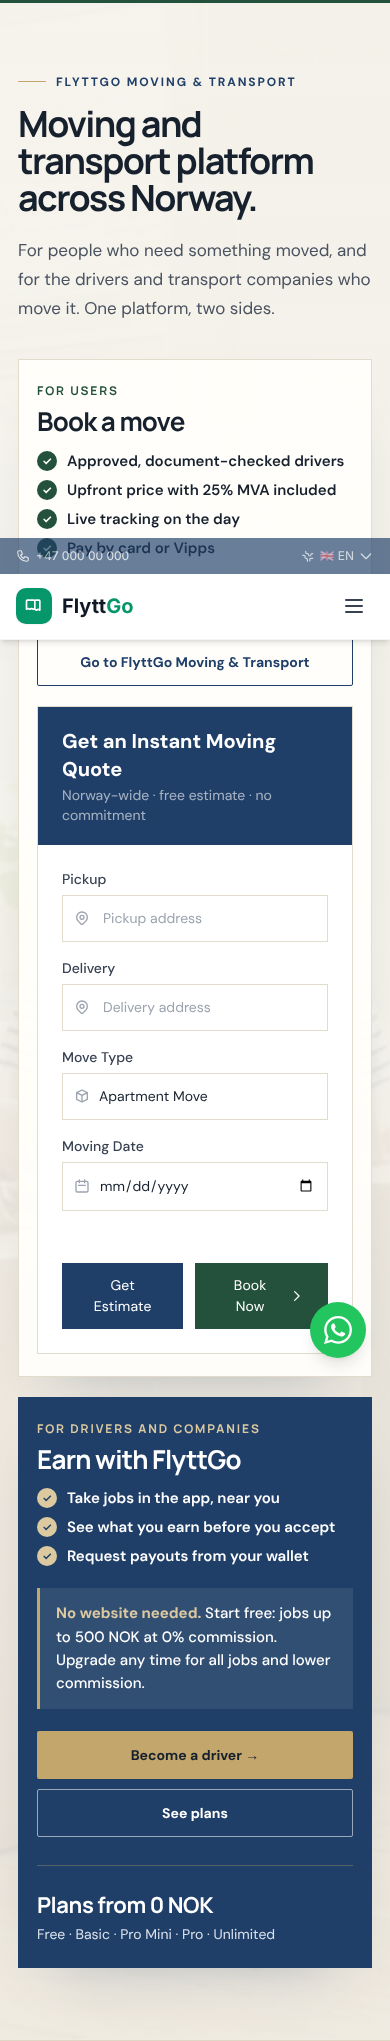
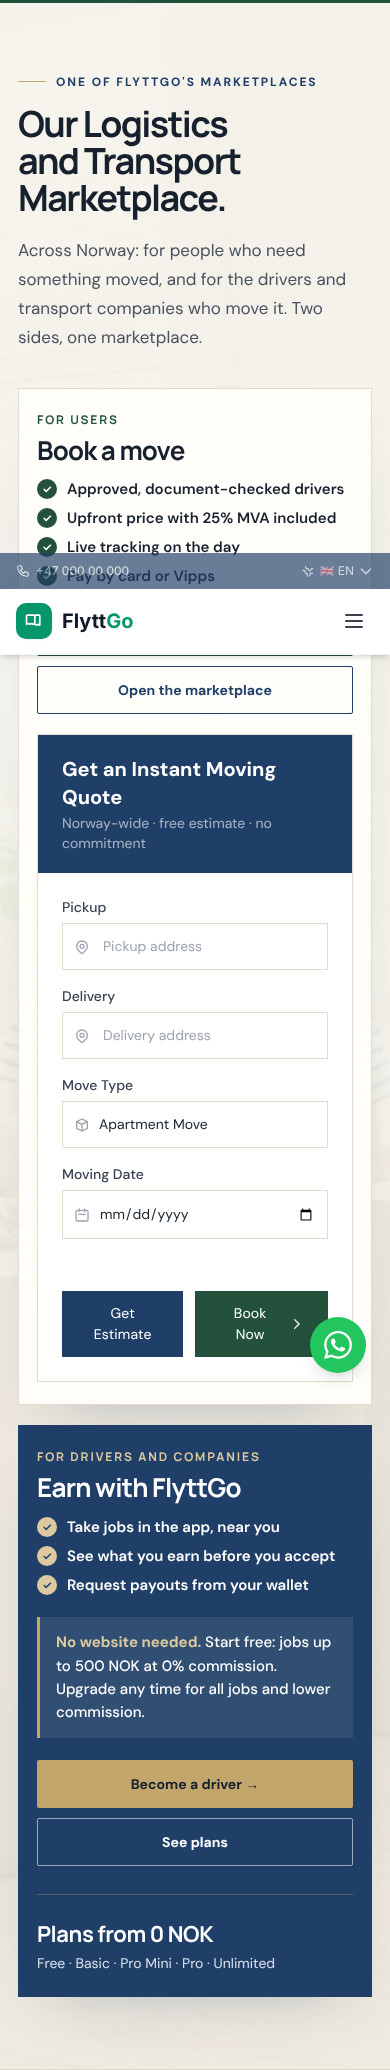
Name moving as one of FlyttGo's options: Our Logistics and Transport Marketplace
The band, the hero line and the new design's menu item now present moving as
FlyttGo's logistics and transport marketplace (owner). The live site's header label
is unchanged. EN and NO.

Claude-Session: https://claude.ai/code/session_019jmcbqjMmiLyKZAGLeTygA

diff --git a/src/components/homeV2/design.v2.no.html b/src/components/homeV2/design.v2.no.html
@@ -1,5 +1,5 @@
 <!-- Generated by scripts/platform-home/build.py (restructured homepage, Norwegian). Do not edit. -->
-<main id="main-content"><section class="hero wrap"><div class="hero-grid"><div class="hero-copy"><svg class="hero-motif" viewBox="0 0 600 320" aria-hidden="true" focusable="false"><path d="M8 304 C 180 300, 330 250, 430 150 S 560 30, 592 12" fill="none" stroke="currentColor" stroke-width="1.5"/><path d="M8 304 C 180 300, 330 250, 430 150 S 560 30, 592 12" fill="none" stroke="currentColor" stroke-width="14" opacity=".06"/><circle cx="592" cy="12" r="6" fill="currentColor"/></svg><a class="hero-move" href="#booking" data-anchor><i aria-hidden="true"></i>Flytting og transport over hele Norge — få pris på et minutt →</a><div class="eyebrow"><span class="hl-sig-a">Tjenester · Bedriftsverktøy · Nettverk</span><span class="hl-sig">Vi hjelper bedrifter å fly høyt</span></div><h1 class="display"><span class="hl hl-a"><span class="h1-line">Vi hjelper bedrifter</span> <span class="h1-line">å fly høyt.</span></span><span class="hl hl-b"><span class="h1-line">Bestill tjenester.</span> <span class="h1-line">Driv bedriften din.</span> <span class="h1-line">Voks med FlyttGo.</span></span><span class="hl hl-c"><span class="h1-line">Plattformen bak</span> <span class="h1-line">enhver tjenestebedrift.</span></span><br/><span class="serif">Én sammenkoblet plattform for tjenester, bedriftsdrift og vekst.</span></h1><p class="hero-lede">Finn tjenester, driv bedriften din og knytt deg til et bredere forretningsnettverk – alt gjennom én sammenkoblet FlyttGo-plattform.</p><div class="hero-actions"><a class="btn btn-primary" href="#marketplace">Utforsk tjenester<span class="arrow">↗</span></a><a class="btn btn-light" href="#business-workspace">Min bedrift<span class="arrow">↗</span></a><a class="hero-link" href="#business">For organisasjoner →</a></div><div class="hero-note"><span>For kunder, selvstendige fagfolk, voksende bedrifter og organisasjoner.</span></div></div><div class="hero-visual"><img loading="lazy" decoding="async" alt="Selvstendig næringsdrivende som driver en tjenestebedrift" src="https://d64gsuwffb70l.cloudfront.net/69b48d1c24a3a59014dde38a_1773440407421_d3f9f76f.jpg"/><nav class="hero-ledger" aria-label="Tre veier inn i FlyttGo"><a href="#marketplace"><small>01 · Utforsk</small><strong>Tjenester nær deg</strong></a><a href="#business-workspace"><small>02 · Min bedrift</small><strong>Driv bedriften</strong></a><a href="#business"><small>03 · For organisasjoner</small><strong>Voks med FlyttGo</strong></a></nav><ul class="hero-actors"><li><b>Kunder</b><span>finner og bestiller tjenester</span></li><li><b>Fagfolk</b><span>utfører arbeidet</span></li><li><b>Bedrifter</b><span>styrer bestillinger, jobber og fakturaer</span></li><li><b>Organisasjoner</b><span>kjøper, godkjenner og vokser</span></li></ul></div></div></section><div class="v2-booking v2-move-band" id="booking"><div class="wrap v2-booking-inner"><div class="v2-move-top"><div><span class="eyebrow">FlyttGo Flytting og transport</span><h2>Plattform for flytting og transport over hele Norge.</h2></div><p>For alle som trenger noe flyttet, og for sjåførene og transportbedriftene som flytter det. Én plattform, to sider.</p></div><div class="v2-move-sides"><div class="v2-move-card v2-move-users"><small>For kunder</small><h3>Bestill flytting</h3><ul class="v2-move-proof"><li>Godkjente sjåfører med kontrollerte dokumenter</li><li>Fast pris med 25 % MVA inkludert</li><li>Sporing på flyttedagen</li><li>Betal med kort eller Vipps</li></ul><div class="v2-move-actions"><a href="/book" data-page="booking" data-anchor>Få flyttepris →</a><a href="/transport" data-page="transport-home" data-anchor>Gå til FlyttGo Flytting og transport</a></div><div data-slot="booking"></div></div><div class="v2-move-card v2-move-drivers"><small>For sjåfører og bedrifter</small><h3>Tjen penger med FlyttGo</h3><ul class="v2-move-proof"><li>Ta oppdrag i appen, i nærheten av deg</li><li>Se hva du tjener før du takker ja</li><li>Be om utbetaling fra lommeboken din</li></ul><p class="v2-move-free"><b>Ingen nettside nødvendig.</b> Start gratis: oppdrag opptil 500 NOK med 0 % provisjon. Oppgrader når som helst for alle oppdrag og lavere provisjon.</p><div class="v2-move-actions"><a href="/become-a-driver" data-page="driver-onboarding" data-anchor>Bli sjåfør →</a><a href="/driver-subscriptions" data-page="subscriptions" data-anchor>Se planer</a></div><p class="v2-move-plans"><b>Planer fra 0 NOK</b>Free · Basic · Pro Mini · Pro · Unlimited</p></div></div></div></div>
+<main id="main-content"><section class="hero wrap"><div class="hero-grid"><div class="hero-copy"><svg class="hero-motif" viewBox="0 0 600 320" aria-hidden="true" focusable="false"><path d="M8 304 C 180 300, 330 250, 430 150 S 560 30, 592 12" fill="none" stroke="currentColor" stroke-width="1.5"/><path d="M8 304 C 180 300, 330 250, 430 150 S 560 30, 592 12" fill="none" stroke="currentColor" stroke-width="14" opacity=".06"/><circle cx="592" cy="12" r="6" fill="currentColor"/></svg><a class="hero-move" href="#booking" data-anchor><i aria-hidden="true"></i>Vår markedsplass for logistikk og transport — få flyttepris på et minutt →</a><div class="eyebrow"><span class="hl-sig-a">Tjenester · Bedriftsverktøy · Nettverk</span><span class="hl-sig">Vi hjelper bedrifter å fly høyt</span></div><h1 class="display"><span class="hl hl-a"><span class="h1-line">Vi hjelper bedrifter</span> <span class="h1-line">å fly høyt.</span></span><span class="hl hl-b"><span class="h1-line">Bestill tjenester.</span> <span class="h1-line">Driv bedriften din.</span> <span class="h1-line">Voks med FlyttGo.</span></span><span class="hl hl-c"><span class="h1-line">Plattformen bak</span> <span class="h1-line">enhver tjenestebedrift.</span></span><br/><span class="serif">Én sammenkoblet plattform for tjenester, bedriftsdrift og vekst.</span></h1><p class="hero-lede">Finn tjenester, driv bedriften din og knytt deg til et bredere forretningsnettverk – alt gjennom én sammenkoblet FlyttGo-plattform.</p><div class="hero-actions"><a class="btn btn-primary" href="#marketplace">Utforsk tjenester<span class="arrow">↗</span></a><a class="btn btn-light" href="#business-workspace">Min bedrift<span class="arrow">↗</span></a><a class="hero-link" href="#business">For organisasjoner →</a></div><div class="hero-note"><span>For kunder, selvstendige fagfolk, voksende bedrifter og organisasjoner.</span></div></div><div class="hero-visual"><img loading="lazy" decoding="async" alt="Selvstendig næringsdrivende som driver en tjenestebedrift" src="https://d64gsuwffb70l.cloudfront.net/69b48d1c24a3a59014dde38a_1773440407421_d3f9f76f.jpg"/><nav class="hero-ledger" aria-label="Tre veier inn i FlyttGo"><a href="#marketplace"><small>01 · Utforsk</small><strong>Tjenester nær deg</strong></a><a href="#business-workspace"><small>02 · Min bedrift</small><strong>Driv bedriften</strong></a><a href="#business"><small>03 · For organisasjoner</small><strong>Voks med FlyttGo</strong></a></nav><ul class="hero-actors"><li><b>Kunder</b><span>finner og bestiller tjenester</span></li><li><b>Fagfolk</b><span>utfører arbeidet</span></li><li><b>Bedrifter</b><span>styrer bestillinger, jobber og fakturaer</span></li><li><b>Organisasjoner</b><span>kjøper, godkjenner og vokser</span></li></ul></div></div></section><div class="v2-booking v2-move-band" id="booking"><div class="wrap v2-booking-inner"><div class="v2-move-top"><div><span class="eyebrow">En av FlyttGos markedsplasser</span><h2>Vår markedsplass for logistikk og transport.</h2></div><p>Over hele Norge: for alle som trenger noe flyttet, og for sjåførene og transportbedriftene som flytter det. To sider, én markedsplass.</p></div><div class="v2-move-sides"><div class="v2-move-card v2-move-users"><small>For kunder</small><h3>Bestill flytting</h3><ul class="v2-move-proof"><li>Godkjente sjåfører med kontrollerte dokumenter</li><li>Fast pris med 25 % MVA inkludert</li><li>Sporing på flyttedagen</li><li>Betal med kort eller Vipps</li></ul><div class="v2-move-actions"><a href="/book" data-page="booking" data-anchor>Få flyttepris →</a><a href="/transport" data-page="transport-home" data-anchor>Åpne markedsplassen</a></div><div data-slot="booking"></div></div><div class="v2-move-card v2-move-drivers"><small>For sjåfører og bedrifter</small><h3>Tjen penger med FlyttGo</h3><ul class="v2-move-proof"><li>Ta oppdrag i appen, i nærheten av deg</li><li>Se hva du tjener før du takker ja</li><li>Be om utbetaling fra lommeboken din</li></ul><p class="v2-move-free"><b>Ingen nettside nødvendig.</b> Start gratis: oppdrag opptil 500 NOK med 0 % provisjon. Oppgrader når som helst for alle oppdrag og lavere provisjon.</p><div class="v2-move-actions"><a href="/become-a-driver" data-page="driver-onboarding" data-anchor>Bli sjåfør →</a><a href="/driver-subscriptions" data-page="subscriptions" data-anchor>Se planer</a></div><p class="v2-move-plans"><b>Planer fra 0 NOK</b>Free · Basic · Pro Mini · Pro · Unlimited</p></div></div></div></div>
 <section class="legacy-suite" id="moving-services">
 <div class="wrap">
 <div class="section-head">

diff --git a/src/components/homeV2/design.v2.html b/src/components/homeV2/design.v2.html
@@ -1,5 +1,5 @@
 <!-- Generated by scripts/platform-home/build.py (restructured homepage, English). Do not edit. -->
-<main id="main-content"><section class="hero wrap"><div class="hero-grid"><div class="hero-copy"><svg class="hero-motif" viewBox="0 0 600 320" aria-hidden="true" focusable="false"><path d="M8 304 C 180 300, 330 250, 430 150 S 560 30, 592 12" fill="none" stroke="currentColor" stroke-width="1.5"/><path d="M8 304 C 180 300, 330 250, 430 150 S 560 30, 592 12" fill="none" stroke="currentColor" stroke-width="14" opacity=".06"/><circle cx="592" cy="12" r="6" fill="currentColor"/></svg><a class="hero-move" href="#booking" data-anchor><i aria-hidden="true"></i>Moving &amp; transport across Norway — get a price in a minute →</a><div class="eyebrow"><span class="hl-sig-a">Services · Business tools · Network</span><span class="hl-sig">Assisting companies to fly high</span></div><h1 class="display"><span class="hl hl-a"><span class="h1-line">Assisting Companies</span> <span class="h1-line">to Fly High.</span></span><span class="hl hl-b"><span class="h1-line">Book services.</span> <span class="h1-line">Run your company.</span> <span class="h1-line">Grow with FlyttGo.</span></span><span class="hl hl-c"><span class="h1-line">The platform behind</span> <span class="h1-line">every service business.</span></span><br/><span class="serif">One connected platform for services, business operations and growth.</span></h1><p class="hero-lede">Discover services, run your company and connect with a wider business network — all through one connected FlyttGo platform.</p><div class="hero-actions"><a class="btn btn-primary" href="#marketplace">Explore services<span class="arrow">↗</span></a><a class="btn btn-light" href="#business-workspace">My Company<span class="arrow">↗</span></a><a class="hero-link" href="#business">For Organisations →</a></div><div class="hero-note"><span>For customers, independent professionals, growing companies and organisations.</span></div></div><div class="hero-visual"><img loading="lazy" decoding="async" alt="Independent business owner managing a service business" src="https://d64gsuwffb70l.cloudfront.net/69b48d1c24a3a59014dde38a_1773440407421_d3f9f76f.jpg"/><nav class="hero-ledger" aria-label="Three ways into FlyttGo"><a href="#marketplace"><small>01 · Explore</small><strong>Services near you</strong></a><a href="#business-workspace"><small>02 · My Company</small><strong>Run the business</strong></a><a href="#business"><small>03 · For Organisations</small><strong>Scale with FlyttGo</strong></a></nav><ul class="hero-actors"><li><b>Customers</b><span>find and book services</span></li><li><b>Professionals</b><span>deliver the work</span></li><li><b>Companies</b><span>run bookings, jobs and invoices</span></li><li><b>Organisations</b><span>buy, approve and scale</span></li></ul></div></div></section><div class="v2-booking v2-move-band" id="booking"><div class="wrap v2-booking-inner"><div class="v2-move-top"><div><span class="eyebrow">FlyttGo Moving &amp; Transport</span><h2>Moving and transport platform across Norway.</h2></div><p>For people who need something moved, and for the drivers and transport companies who move it. One platform, two sides.</p></div><div class="v2-move-sides"><div class="v2-move-card v2-move-users"><small>For users</small><h3>Book a move</h3><ul class="v2-move-proof"><li>Approved, document-checked drivers</li><li>Upfront price with 25% MVA included</li><li>Live tracking on the day</li><li>Pay by card or Vipps</li></ul><div class="v2-move-actions"><a href="/book" data-page="booking" data-anchor>Get a moving price →</a><a href="/transport" data-page="transport-home" data-anchor>Go to FlyttGo Moving &amp; Transport</a></div><div data-slot="booking"></div></div><div class="v2-move-card v2-move-drivers"><small>For drivers and companies</small><h3>Earn with FlyttGo</h3><ul class="v2-move-proof"><li>Take jobs in the app, near you</li><li>See what you earn before you accept</li><li>Request payouts from your wallet</li></ul><p class="v2-move-free"><b>No website needed.</b> Start free: jobs up to 500 NOK at 0% commission. Upgrade any time for all jobs and lower commission.</p><div class="v2-move-actions"><a href="/become-a-driver" data-page="driver-onboarding" data-anchor>Become a driver →</a><a href="/driver-subscriptions" data-page="subscriptions" data-anchor>See plans</a></div><p class="v2-move-plans"><b>Plans from 0 NOK</b>Free · Basic · Pro Mini · Pro · Unlimited</p></div></div></div></div>
+<main id="main-content"><section class="hero wrap"><div class="hero-grid"><div class="hero-copy"><svg class="hero-motif" viewBox="0 0 600 320" aria-hidden="true" focusable="false"><path d="M8 304 C 180 300, 330 250, 430 150 S 560 30, 592 12" fill="none" stroke="currentColor" stroke-width="1.5"/><path d="M8 304 C 180 300, 330 250, 430 150 S 560 30, 592 12" fill="none" stroke="currentColor" stroke-width="14" opacity=".06"/><circle cx="592" cy="12" r="6" fill="currentColor"/></svg><a class="hero-move" href="#booking" data-anchor><i aria-hidden="true"></i>Our logistics and transport marketplace — get a moving price in a minute →</a><div class="eyebrow"><span class="hl-sig-a">Services · Business tools · Network</span><span class="hl-sig">Assisting companies to fly high</span></div><h1 class="display"><span class="hl hl-a"><span class="h1-line">Assisting Companies</span> <span class="h1-line">to Fly High.</span></span><span class="hl hl-b"><span class="h1-line">Book services.</span> <span class="h1-line">Run your company.</span> <span class="h1-line">Grow with FlyttGo.</span></span><span class="hl hl-c"><span class="h1-line">The platform behind</span> <span class="h1-line">every service business.</span></span><br/><span class="serif">One connected platform for services, business operations and growth.</span></h1><p class="hero-lede">Discover services, run your company and connect with a wider business network — all through one connected FlyttGo platform.</p><div class="hero-actions"><a class="btn btn-primary" href="#marketplace">Explore services<span class="arrow">↗</span></a><a class="btn btn-light" href="#business-workspace">My Company<span class="arrow">↗</span></a><a class="hero-link" href="#business">For Organisations →</a></div><div class="hero-note"><span>For customers, independent professionals, growing companies and organisations.</span></div></div><div class="hero-visual"><img loading="lazy" decoding="async" alt="Independent business owner managing a service business" src="https://d64gsuwffb70l.cloudfront.net/69b48d1c24a3a59014dde38a_1773440407421_d3f9f76f.jpg"/><nav class="hero-ledger" aria-label="Three ways into FlyttGo"><a href="#marketplace"><small>01 · Explore</small><strong>Services near you</strong></a><a href="#business-workspace"><small>02 · My Company</small><strong>Run the business</strong></a><a href="#business"><small>03 · For Organisations</small><strong>Scale with FlyttGo</strong></a></nav><ul class="hero-actors"><li><b>Customers</b><span>find and book services</span></li><li><b>Professionals</b><span>deliver the work</span></li><li><b>Companies</b><span>run bookings, jobs and invoices</span></li><li><b>Organisations</b><span>buy, approve and scale</span></li></ul></div></div></section><div class="v2-booking v2-move-band" id="booking"><div class="wrap v2-booking-inner"><div class="v2-move-top"><div><span class="eyebrow">One of FlyttGo's marketplaces</span><h2>Our Logistics and Transport Marketplace.</h2></div><p>Across Norway: for people who need something moved, and for the drivers and transport companies who move it. Two sides, one marketplace.</p></div><div class="v2-move-sides"><div class="v2-move-card v2-move-users"><small>For users</small><h3>Book a move</h3><ul class="v2-move-proof"><li>Approved, document-checked drivers</li><li>Upfront price with 25% MVA included</li><li>Live tracking on the day</li><li>Pay by card or Vipps</li></ul><div class="v2-move-actions"><a href="/book" data-page="booking" data-anchor>Get a moving price →</a><a href="/transport" data-page="transport-home" data-anchor>Open the marketplace</a></div><div data-slot="booking"></div></div><div class="v2-move-card v2-move-drivers"><small>For drivers and companies</small><h3>Earn with FlyttGo</h3><ul class="v2-move-proof"><li>Take jobs in the app, near you</li><li>See what you earn before you accept</li><li>Request payouts from your wallet</li></ul><p class="v2-move-free"><b>No website needed.</b> Start free: jobs up to 500 NOK at 0% commission. Upgrade any time for all jobs and lower commission.</p><div class="v2-move-actions"><a href="/become-a-driver" data-page="driver-onboarding" data-anchor>Become a driver →</a><a href="/driver-subscriptions" data-page="subscriptions" data-anchor>See plans</a></div><p class="v2-move-plans"><b>Plans from 0 NOK</b>Free · Basic · Pro Mini · Pro · Unlimited</p></div></div></div></div>
 <section class="legacy-suite" id="moving-services">
 <div class="wrap">
 <div class="section-head">

diff --git a/src/components/Header.tsx b/src/components/Header.tsx
@@ -216,7 +216,7 @@ export default function Header() {
     <button onClick={openMoving}
       className={`px-1.5 xl:px-2 2xl:px-4 py-2 whitespace-nowrap rounded-lg text-sm font-semibold transition ${
         currentPage === 'transport-home' ? 'text-[#24513B] bg-[#F5F3EB]' : 'text-[#24513B] hover:bg-gray-50'
-      }`}>{t('header.transport')}</button>
+      }`}>{t('header.journeys.logistics')}</button>
   );
   /* The new homepage's address: `/` once it is the front page, else the preview path. */
   const homeOfDesign: Page = newDesign() ? 'home' : 'home-preview';
@@ -663,7 +663,7 @@ export default function Header() {
               </div>
             ))}
             {preview && !isTransportHost(window.location.hostname) && (
-              <button onClick={() => openMoving()} className="block w-full text-left px-4 py-2.5 text-sm font-semibold rounded-lg text-[#24513B] hover:bg-gray-50">{t('header.transport')}</button>
+              <button onClick={() => openMoving()} className="block w-full text-left px-4 py-2.5 text-sm font-semibold rounded-lg text-[#24513B] hover:bg-gray-50">{t('header.journeys.logistics')}</button>
             )}
             {preview && (
               <button onClick={() => (document.getElementById('how-flyttgo-works') ? toSection('how-flyttgo-works') : handleNav('how-it-works-page'))} className="block w-full text-left px-4 py-2.5 text-sm font-medium rounded-lg text-gray-700 hover:bg-gray-50">{t('header.journeys.howItWorks')}</button>

diff --git a/src/lib/locales/no.ts b/src/lib/locales/no.ts
@@ -58,6 +58,7 @@ export const no: PartialTranslationKeys = {
       payments: 'Betalinger og regnskap',
       expenses: 'Utgifter og rapporter',
       participation: 'Delta som leverandør',
+      logistics: 'Logistikk og transport',
       companyNote: 'Driv bedriften din med FlyttGos forretningsverktøy. Ingen egen markedsplass nødvendig.',
       openMyCompany: 'Alt om Min bedrift',
       openMyCompanyDesc: 'Hele bedriftsarbeidsflaten',

diff --git a/src/lib/locales/en.ts b/src/lib/locales/en.ts
@@ -56,6 +56,7 @@ export const en = {
       payments: 'Payments and financial records',
       expenses: 'Expenses and reporting',
       participation: 'Provider participation',
+      logistics: 'Logistics & transport',
       companyNote: 'Run your company with FlyttGo\'s business tools. No marketplace of your own needed.',
       openMyCompany: 'All of My Company',
       openMyCompanyDesc: 'The full business workspace',

diff --git a/scripts/platform-home/build.py b/scripts/platform-home/build.py
@@ -412,15 +412,15 @@ V2_ECO_NOTE = ('<p class="v2-eco-note">Every business and marketplace keeps its 
 # without a website of their own (the Free plan: jobs up to 500 NOK at 0% commission, SUBSCRIPTION_PLANS).
 # No free branded page is offered or implied.
 V2_BOOKING = ('<div class="v2-booking v2-move-band" id="booking"><div class="wrap v2-booking-inner">'
-              '<div class="v2-move-top"><div><span class="eyebrow">FlyttGo Moving &amp; Transport</span>'
-              '<h2>Moving and transport platform across Norway.</h2></div>'
-              '<p>For people who need something moved, and for the drivers and transport companies who move it. One platform, two sides.</p></div>'
+              '<div class="v2-move-top"><div><span class="eyebrow">One of FlyttGo\'s marketplaces</span>'
+              '<h2>Our Logistics and Transport Marketplace.</h2></div>'
+              '<p>Across Norway: for people who need something moved, and for the drivers and transport companies who move it. Two sides, one marketplace.</p></div>'
               '<div class="v2-move-sides">'
               '<div class="v2-move-card v2-move-users"><small>For users</small><h3>Book a move</h3>'
               '<ul class="v2-move-proof"><li>Approved, document-checked drivers</li><li>Upfront price with 25% MVA included</li>'
               '<li>Live tracking on the day</li><li>Pay by card or Vipps</li></ul>'
               '<div class="v2-move-actions"><a href="/book" data-page="booking" data-anchor>Get a moving price →</a>'
-              '<a href="/transport" data-page="transport-home" data-anchor>Go to FlyttGo Moving &amp; Transport</a></div>'
+              '<a href="/transport" data-page="transport-home" data-anchor>Open the marketplace</a></div>'
               '<div data-slot="booking"></div></div>'
               '<div class="v2-move-card v2-move-drivers"><small>For drivers and companies</small><h3>Earn with FlyttGo</h3>'
               '<ul class="v2-move-proof"><li>Take jobs in the app, near you</li><li>See what you earn before you accept</li>'
@@ -543,7 +543,7 @@ V2_VOICE = [
      '<span class="hl hl-b"><span class="h1-line">Book services.</span> <span class="h1-line">Run your company.</span> <span class="h1-line">Grow with FlyttGo.</span></span>'
      '<span class="hl hl-c"><span class="h1-line">The platform behind</span> <span class="h1-line">every service business.</span></span><br/>'),
     ('<div class="eyebrow">Services · Business tools · Network</div>',
-     '<a class="hero-move" href="#booking" data-anchor><i aria-hidden="true"></i>Moving &amp; transport across Norway — get a price in a minute →</a>'
+     '<a class="hero-move" href="#booking" data-anchor><i aria-hidden="true"></i>Our logistics and transport marketplace — get a moving price in a minute →</a>'
      '<div class="eyebrow"><span class="hl-sig-a">Services · Business tools · Network</span><span class="hl-sig">Assisting companies to fly high</span></div>'),
     # What the studio shows that exists, what is being connected and what is in development
     # (docs/PLATFORM_AUDIT_2026-10-30.md, white label rows).
